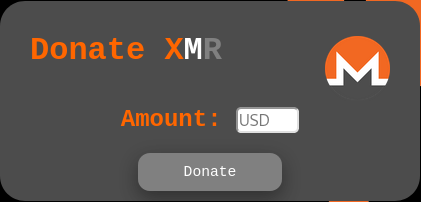
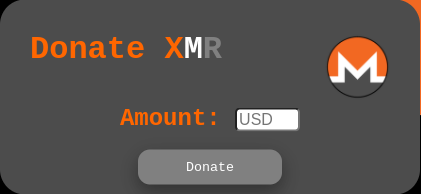
update pay demo

diff --git a/xmrsale.py b/xmrsale.py
@@ -249,7 +249,6 @@ def check_payment_status(uuid):
             conf_paid += unconf_paid
             unconf_paid = 0
 
-        print("HERE", conf_paid, unconf_paid)
         # Debugging and demo mode which auto confirms payments after 5 seconds
         dbg_free_mode_cond = config.free_mode and (time.time() - invoice["time"] > 5)
 

diff --git a/README.md b/README.md
@@ -16,7 +16,7 @@ With your support, we will continually work to ensure that xmrSale remains up-to
 
 Donation Button     ----->  |  Monero Payment Gateway
 :-------------------------:|:-------------------------:
-[![Donate demo](docs/demo_donate.png)](https://try.xmrSale.org/) <br />(Click for embed demo)<br /> Initiates payment -----> |  [![Store demo](https://user-images.githubusercontent.com/87597480/129158548-0337a429-72a0-4116-af92-b90f96a52e6c.png)](https://try.xmrSale.org/) <br />(Click for WordPress payments demo)
+[![Donate demo](docs/demo_pay.png)](https://try.xmrSale.org/) <br />(Click for embed demo)<br /> Initiates payment -----> |  [![Store demo](https://user-images.githubusercontent.com/87597480/129158548-0337a429-72a0-4116-af92-b90f96a52e6c.png)](https://try.xmrSale.org/) <br />(Click for WordPress payments demo)
 
 - [Purpose](#purpose)
 - [Features](#features)
